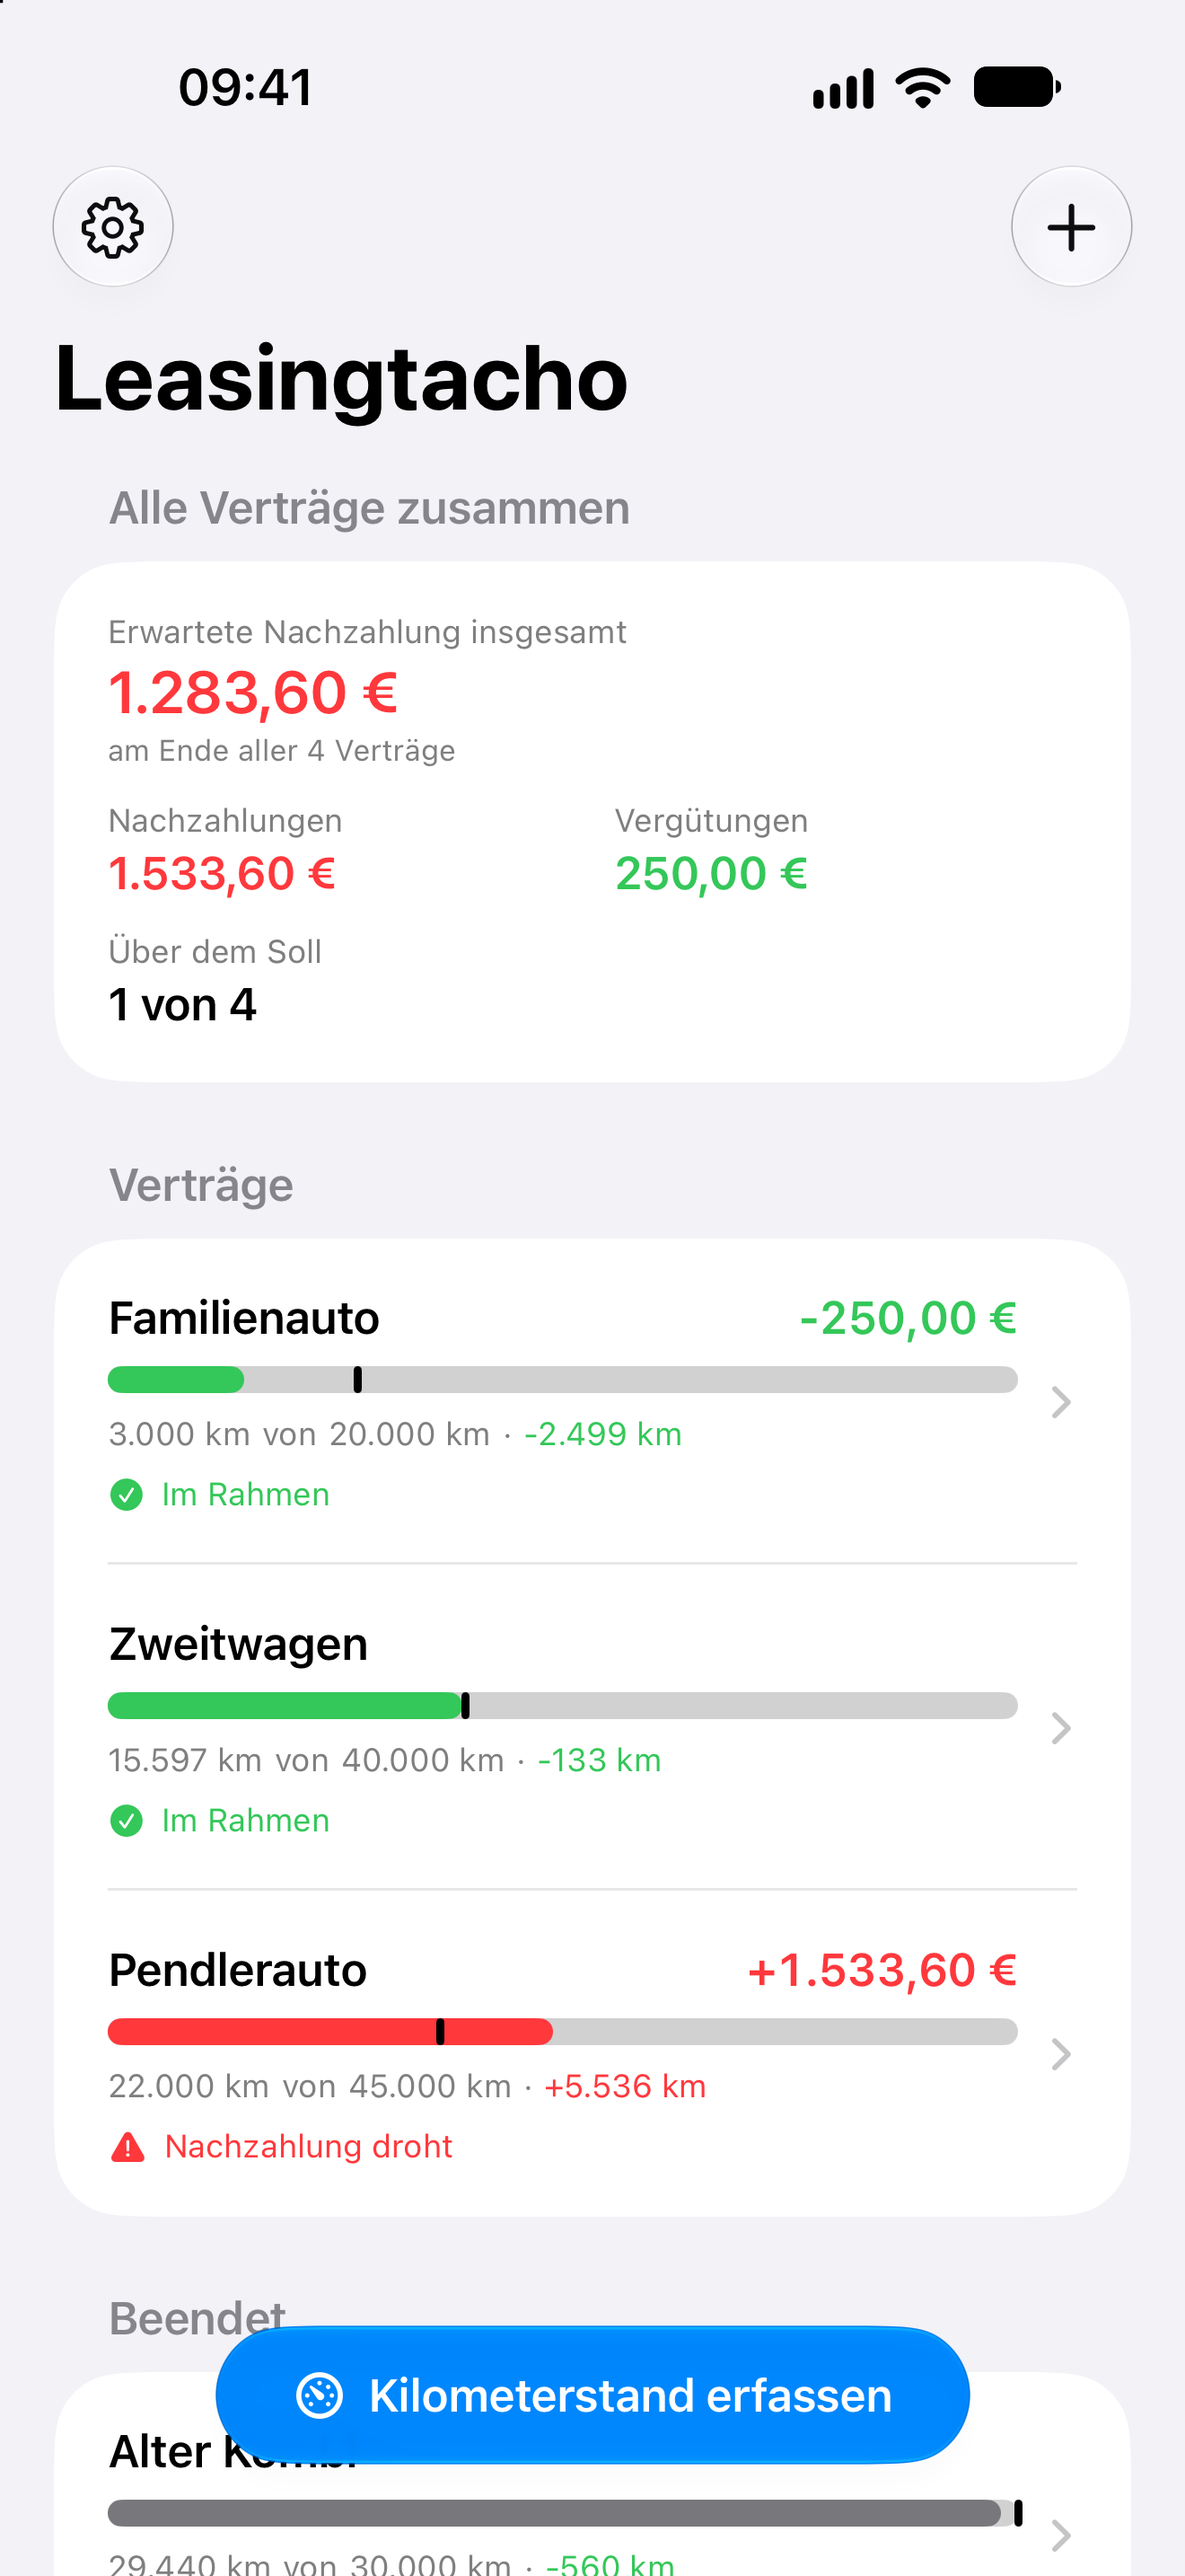
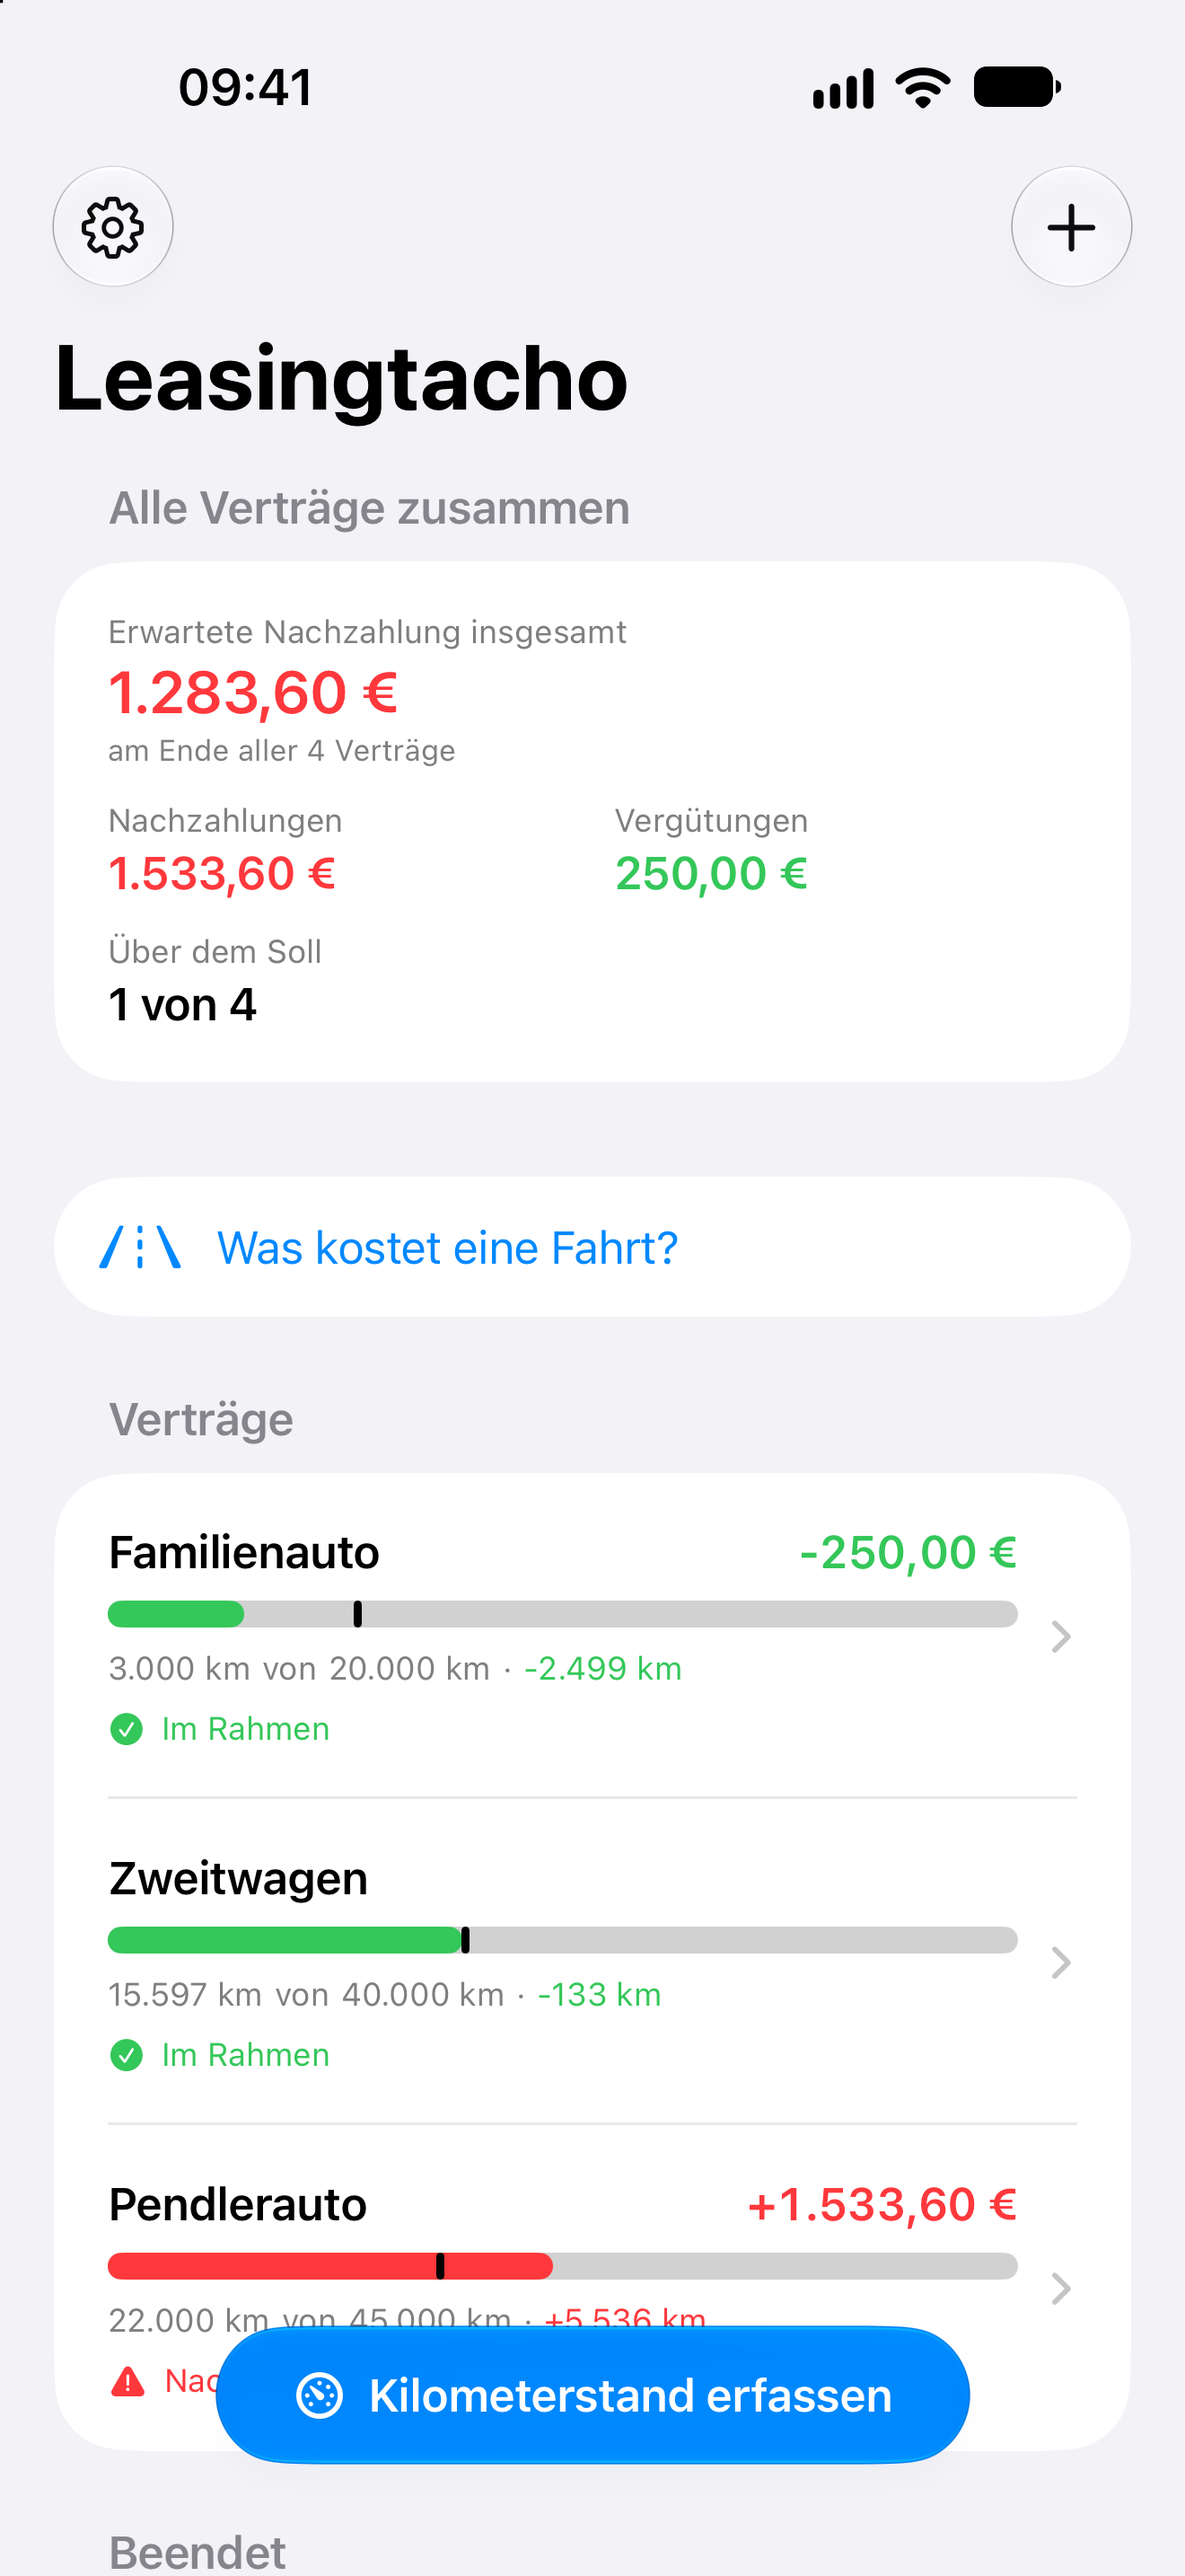
Presseseite auf Stand 1.5: Funktionen, Versionen, zwölf Bildschirmfotos

Changed region(s): [[0.0932, 0.4344, 0.8697, 1.0]]

diff --git a/presse.html b/presse.html
@@ -39,10 +39,10 @@
     <article>
       <h1>Presseinformationen zu Leasingtacho</h1>
       <p class="vorspann">Kurzbeschreibung, Eckdaten, Funktionen, App-Symbol und Bildschirmfotos für Berichte über Leasingtacho. Fragen beantwortet der Entwickler gern per E-Mail.</p>
-      <p class="stand">Stand: September 2026</p>
+      <p class="stand">Stand: Oktober 2026, Version 1.5</p>
 
       <h2>Kurzbeschreibung</h2>
-      <p>Leasingtacho ist eine iPhone-App für alle, die ein Auto im Kilometerleasing fahren. Aus den Vertragsdaten und den abgelesenen Kilometerständen rechnet sie jederzeit aus, ob man über oder unter der vereinbarten Laufleistung liegt und was das am Vertragsende bedeutet: eine Nachzahlung für Mehrkilometer oder eine Vergütung für Minderkilometer, in Euro. Sätze, Freigrenzen und eine Obergrenze für die Vergütung trägt man so ein, wie sie im Vertrag stehen. Den Kilometerstand erfasst die App per Kamera, über Siri oder mit einem Tipp auf der Startseite. Die Daten bleiben auf dem Gerät und in der privaten iCloud – ohne Konto, Werbung oder Tracking.</p>
+      <p>Leasingtacho ist eine iPhone-App für alle, die ein Auto im Kilometerleasing fahren. Aus den Vertragsdaten und den abgelesenen Kilometerständen rechnet sie jederzeit aus, ob man über oder unter der vereinbarten Laufleistung liegt und was das am Vertragsende bedeutet: eine Nachzahlung für Mehrkilometer oder eine Vergütung für Minderkilometer, in Euro. Sätze, Freigrenzen und eine Obergrenze für die Vergütung trägt man so ein, wie sie im Vertrag stehen. Den Kilometerstand erfasst die App per Kamera, über Siri oder mit einem Tipp auf der Startseite. Darüber hinaus rechnet sie aus, was das Auto insgesamt kostet – Raten, Anzahlung, Versicherung, Steuer und die erwartete Kilometerabrechnung, auch je Monat und je Kilometer –, erinnert an Inspektion, Reifenwechsel und Hauptuntersuchung und begleitet die Rückgabe und die Wahl des Anschlussvertrags. Die Daten bleiben auf dem Gerät und in der privaten iCloud – ohne Konto, Werbung oder Tracking.</p>
 
       <h2>Eckdaten</h2>
       <div class="tabelle-rahmen">
@@ -92,25 +92,76 @@
               <th scope="row">Erschienen</th>
               <td>28.&#160;September 2026</td>
             </tr>
+            <tr>
+              <th scope="row">Aktuelle Version</th>
+              <td>1.5 vom 18.&#160;Oktober 2026 – Updates sind im Kaufpreis enthalten</td>
+            </tr>
           </tbody>
         </table>
       </div>
 
       <h2>Funktionen</h2>
+      <h3>Auswerten</h3>
       <ul>
         <li><strong>Stand auf einen Blick:</strong> gefahrene Kilometer, Soll zum heutigen Tag und was das am Vertragsende als Nachzahlung oder Vergütung bedeutet.</li>
         <li><strong>Hochrechnung auf das Vertragsende:</strong> aus dem Schnitt der letzten Wochen, seit Vertragsbeginn oder aus einer eigenen Jahresannahme – dazu die Rechnung für den Fall, dass kein Kilometer mehr dazukommt.</li>
         <li><strong>Rechnet wie der Vertrag:</strong> Sätze für Mehr- und Minderkilometer, Freigrenzen als Freibetrag oder Grenze, Obergrenze für die Vergütung; nach dem Vertragsende die Schlussabrechnung.</li>
+        <li><strong>Was kostet eine Fahrt?</strong> Eine Strecke eingeben und sehen, was sie am Vertragsende kostet – bei mehreren Autos auch, mit welchem sie am günstigsten ist.</li>
+        <li><strong>Budget für den Monat:</strong> wie viele Kilometer diesen Monat drin sind, damit man genau bei der vereinbarten Laufleistung landet.</li>
+        <li><strong>Gesamtkosten:</strong> Monatsrate, Anzahlung, Überführung und Zulassung, dazu Versicherung, Kfz-Steuer, Servicepaket und eigene Posten, auch Gutschriften. Die App rechnet die Kosten über die Laufzeit aus, mit der erwarteten Kilometerabrechnung, getrennt nach Leasing und Unterhalt, effektiv je Monat und je Kilometer.</li>
         <li><strong>Verlauf und Ablesungen:</strong> Diagramm mit gefahrenen Kilometern, Soll und Hochrechnung; Ablesungen nach Monaten geordnet.</li>
-        <li><strong>Kilometerstand per Kamera:</strong> Kamera auf den Tacho halten und den Stand antippen; das Bild wird nur auf dem iPhone ausgewertet.</li>
-        <li><strong>Schnell erfasst:</strong> mit einem Tipp von der Startseite, über Siri, Spotlight und die Kurzbefehle-App oder aus dem Menü des App-Symbols.</li>
+      </ul>
+      <h3>Erfassen</h3>
+      <ul>
+        <li><strong>Kilometerstand per Kamera:</strong> Kamera auf den Tacho halten und den Stand antippen oder ein vorhandenes Foto wählen; das Bild wird nur auf dem iPhone ausgewertet.</li>
+        <li><strong>Schnell erfasst:</strong> mit einem Tipp von der Startseite, über Siri, Spotlight und die Kurzbefehle-App, aus dem Menü des App-Symbols, im Kontrollzentrum oder mit der Aktionstaste.</li>
+        <li><strong>Widgets</strong> für Home- und Sperrbildschirm, für jedes Auto ein eigenes.</li>
         <li><strong>Erinnerungen:</strong> an fällige Ablesungen und auf Wunsch vier Wochen vor dem Vertragsende.</li>
+      </ul>
+      <h3>Verwalten</h3>
+      <ul>
         <li><strong>Beliebig viele Verträge</strong> mit Gesamtübersicht über alle zusammen.</li>
+        <li><strong>Wartung:</strong> Inspektion, Reifenwechsel, Hauptuntersuchung und eigene Termine nach Datum oder Kilometerstand. Die App schätzt, wann ein Kilometerstand erreicht ist, und erinnert zwei Wochen vorher.</li>
+        <li><strong>Checkliste für die Rückgabe:</strong> was drei Monate, vier Wochen und eine Woche vorher, am Rückgabetag und danach ansteht, mit Terminen passend zum Vertragsende.</li>
+        <li><strong>Anschlussvertrag planen:</strong> welche Laufleistung zur echten Fahrleistung passt und welches von zwei Angeboten am Ende günstiger ist, Raten plus Kilometerabrechnung. Den Vergleich gibt es auch als <a href="angebotsvergleich.html">Rechner im Browser</a>.</li>
+        <li><strong>Vertrag als Vorlage:</strong> Der nächste Vertrag übernimmt Laufzeit, Sätze, Freigrenzen und Erinnerungen vom alten.</li>
         <li><strong>Abgleich über iCloud:</strong> Verträge und Ablesungen liegen in der privaten iCloud der Nutzer.</li>
-        <li><strong>App-Sperre</strong> mit Face&#160;ID, Touch&#160;ID oder Gerätecode.</li>
+        <li><strong>App-Sperre</strong> mit Face&#160;ID, Touch&#160;ID oder Gerätecode; die Widgets auf dem Sperrbildschirm zeigen dann keine Zahlen.</li>
         <li><strong>Export:</strong> Ablesungen als Tabelle (CSV) und der aktuelle Stand als Bericht.</li>
         <li><strong>Ohne Konto, Werbung und Tracking:</strong> Der Anbieter sieht keine Nutzerdaten.</li>
       </ul>
+
+      <h2>Versionen</h2>
+      <div class="tabelle-rahmen">
+        <table class="tabelle eckdaten">
+          <tbody>
+            <tr>
+              <th scope="row">1.5 · 18.10.2026</th>
+              <td>Weitere Kosten: Versicherung, Kfz-Steuer, Servicepaket, eigene Posten und Gutschriften; Leasing und Unterhalt getrennt; Wartungskosten beim Abhaken</td>
+            </tr>
+            <tr>
+              <th scope="row">1.4 · 14.10.2026</th>
+              <td>Kosten und Wartung: Gesamtkosten aus Rate, Anzahlung und Überführung; Termine für Inspektion, Reifen und Hauptuntersuchung mit Erinnerung; übersichtlichere Vertragsseite</td>
+            </tr>
+            <tr>
+              <th scope="row">1.3 · 03.10.2026</th>
+              <td>Anschlussvertrag planen und zwei Angebote vergleichen; Vertrag als Vorlage</td>
+            </tr>
+            <tr>
+              <th scope="row">1.2 · 02.10.2026</th>
+              <td>Checkliste für die Leasingrückgabe</td>
+            </tr>
+            <tr>
+              <th scope="row">1.1 · 01.10.2026</th>
+              <td>Budget für den Monat, „Was kostet eine Fahrt?“, Widgets, Ablesen aus einem vorhandenen Foto</td>
+            </tr>
+            <tr>
+              <th scope="row">1.0 · 28.09.2026</th>
+              <td>Erste Version: Stand, Hochrechnung, Ablesen per Kamera und Siri, Erinnerungen, Abgleich über iCloud</td>
+            </tr>
+          </tbody>
+        </table>
+      </div>
 
       <h2>Hintergrund</h2>
       <p>Bei einem Kilometerleasing erfahren viele erst bei der Rückgabe, wo sie stehen. Leasingtacho beantwortet die Frage schon unterwegs: Liegt man bei der bisherigen Fahrleistung über oder unter dem Soll – und was bedeutet das in Euro, wenn es so weitergeht? Entwickelt und angeboten wird Leasingtacho von Christian Lehnert.</p>
@@ -124,21 +175,31 @@
           <figcaption>Übersicht</figcaption>
         </figure>
         <figure>
-          <a href="presse/02-Vertrag.png"><img src="presse/02-Vertrag.png" width="1320" height="2868" loading="lazy" decoding="async" alt="Detailseite eines Vertrags mit gefahrenen Kilometern, Soll zum heutigen Tag und Abweichung vom Soll." /></a>
+          <a href="presse/02-Vertrag.png"><img src="presse/02-Vertrag.png" width="1320" height="2868" loading="lazy" decoding="async" alt="Seite eines Vertrags mit gefahrenen Kilometern, Soll zum heutigen Tag, Abweichung vom Soll und voraussichtlicher Nachzahlung." /></a>
           <figcaption>Vertrag</figcaption>
+        </figure>
+        <figure>
+          <a href="presse/12-Kosten.png"><img src="presse/12-Kosten.png" width="1320" height="2868" loading="lazy" decoding="async" alt="Seite „Kosten“ eines Vertrags mit den Gesamtkosten über die Laufzeit, getrennt nach Leasing und Unterhalt." /></a>
+          <figcaption>Kosten</figcaption>
         </figure>
       </div>
 
       <h3>Alle Dateien</h3>
-      <p>Die Bildschirmfotos sind PNG-Dateien mit 1320&#160;×&#160;2868 Pixeln.</p>
+      <p>Die Bildschirmfotos sind PNG-Dateien mit 1320&#160;×&#160;2868 Pixeln und zeigen den Stand von Version 1.5.</p>
       <ul>
         <li><a href="presse/symbol-1024.png">App-Symbol</a> – PNG, 1024&#160;×&#160;1024 Pixel, ohne abgerundete Ecken</li>
         <li><a href="presse/01-Uebersicht.png">Übersicht</a> – die Startseite: erwartete Nachzahlung über alle Verträge zusammen, darunter die einzelnen Verträge mit Kilometerbalken, Abweichung vom Soll und Betrag</li>
-        <li><a href="presse/02-Vertrag.png">Vertrag</a> – die Detailseite eines Vertrags: gefahrene Kilometer, Soll zum heutigen Tag, Abweichung und was bis zum Vertragsende noch frei ist</li>
+        <li><a href="presse/02-Vertrag.png">Vertrag</a> – die Seite eines Vertrags: gefahrene Kilometer, Soll zum heutigen Tag, Abweichung und voraussichtliche Nachzahlung, darunter „Als Nächstes“ und das Budget für den Monat</li>
         <li><a href="presse/03-Hochrechnung.png">Hochrechnung</a> – angenommene Kilometer je Tag, Laufleistung am Vertragsende und voraussichtliche Nachzahlung mit Rechenweg</li>
         <li><a href="presse/04-Verlauf.png">Verlauf</a> – Diagramm mit gefahrenen Kilometern, Soll und Prognose über die Laufzeit, darunter die letzten Ablesungen</li>
-        <li><a href="presse/06-Erfassen.png">Erfassen</a> – eine Ablesung eintragen: Kilometerstand eintippen oder mit der Kamera ablesen, darunter die gefahrenen Kilometer seit der letzten Ablesung</li>
-        <li><a href="presse/05-Ablesungen.png">Ablesungen</a> – alle Ablesungen nach Monaten geordnet, mit den gefahrenen Kilometern seit der vorherigen</li>
+        <li><a href="presse/05-Ablesungen.png">Ablesungen</a> – alle Ablesungen nach Monaten geordnet, mit den gefahrenen Kilometern je Monat</li>
+        <li><a href="presse/06-Erfassen.png">Erfassen</a> – eine Ablesung eintragen: Kilometerstand eintippen oder mit der Kamera ablesen</li>
+        <li><a href="presse/07-Fahrtkosten.png">Was kostet eine Fahrt?</a> – eine Strecke mit drei Autos verglichen: frei, weniger Vergütung oder mehr Nachzahlung</li>
+        <li><a href="presse/08-Widget.png">Widget</a> – Home-Bildschirm mit dem Widget: Vergütung am Vertragsende, Abweichung vom Soll und Budget für den Monat</li>
+        <li><a href="presse/09-Rueckgabe.png">Rückgabe</a> – Checkliste für die Leasingrückgabe mit Terminen passend zum Vertragsende</li>
+        <li><a href="presse/10-Anschluss.png">Anschlussvertrag</a> – zwei Angebote im Vergleich: Raten, erwartete Kilometerabrechnung und Gesamtkosten</li>
+        <li><a href="presse/11-Wartung.png">Wartung</a> – anstehende Termine für Reifenwechsel, Inspektion und einen eigenen Termin, darunter Vorlagen</li>
+        <li><a href="presse/12-Kosten.png">Kosten</a> – Gesamtkosten über die Laufzeit, getrennt nach Leasing und Unterhalt, effektiv je Monat und je Kilometer</li>
       </ul>
 
       <h2>Kontakt für Presse</h2>

diff --git a/stil.css b/stil.css
@@ -372,15 +372,15 @@ summary:focus-visible {
 
 /* Kleine Vorschauen, etwa auf der Presseseite */
 .bildschirme.klein {
-  grid-template-columns: repeat(2, minmax(0, 200px));
+  grid-template-columns: repeat(3, minmax(0, 180px));
   justify-content: start;
   gap: 24px;
 }
 
 @media (max-width: 560px) {
   .bildschirme.klein {
-    grid-template-columns: repeat(2, minmax(0, 1fr));
-    gap: 16px;
+    grid-template-columns: repeat(3, minmax(0, 1fr));
+    gap: 12px;
   }
 }
 
